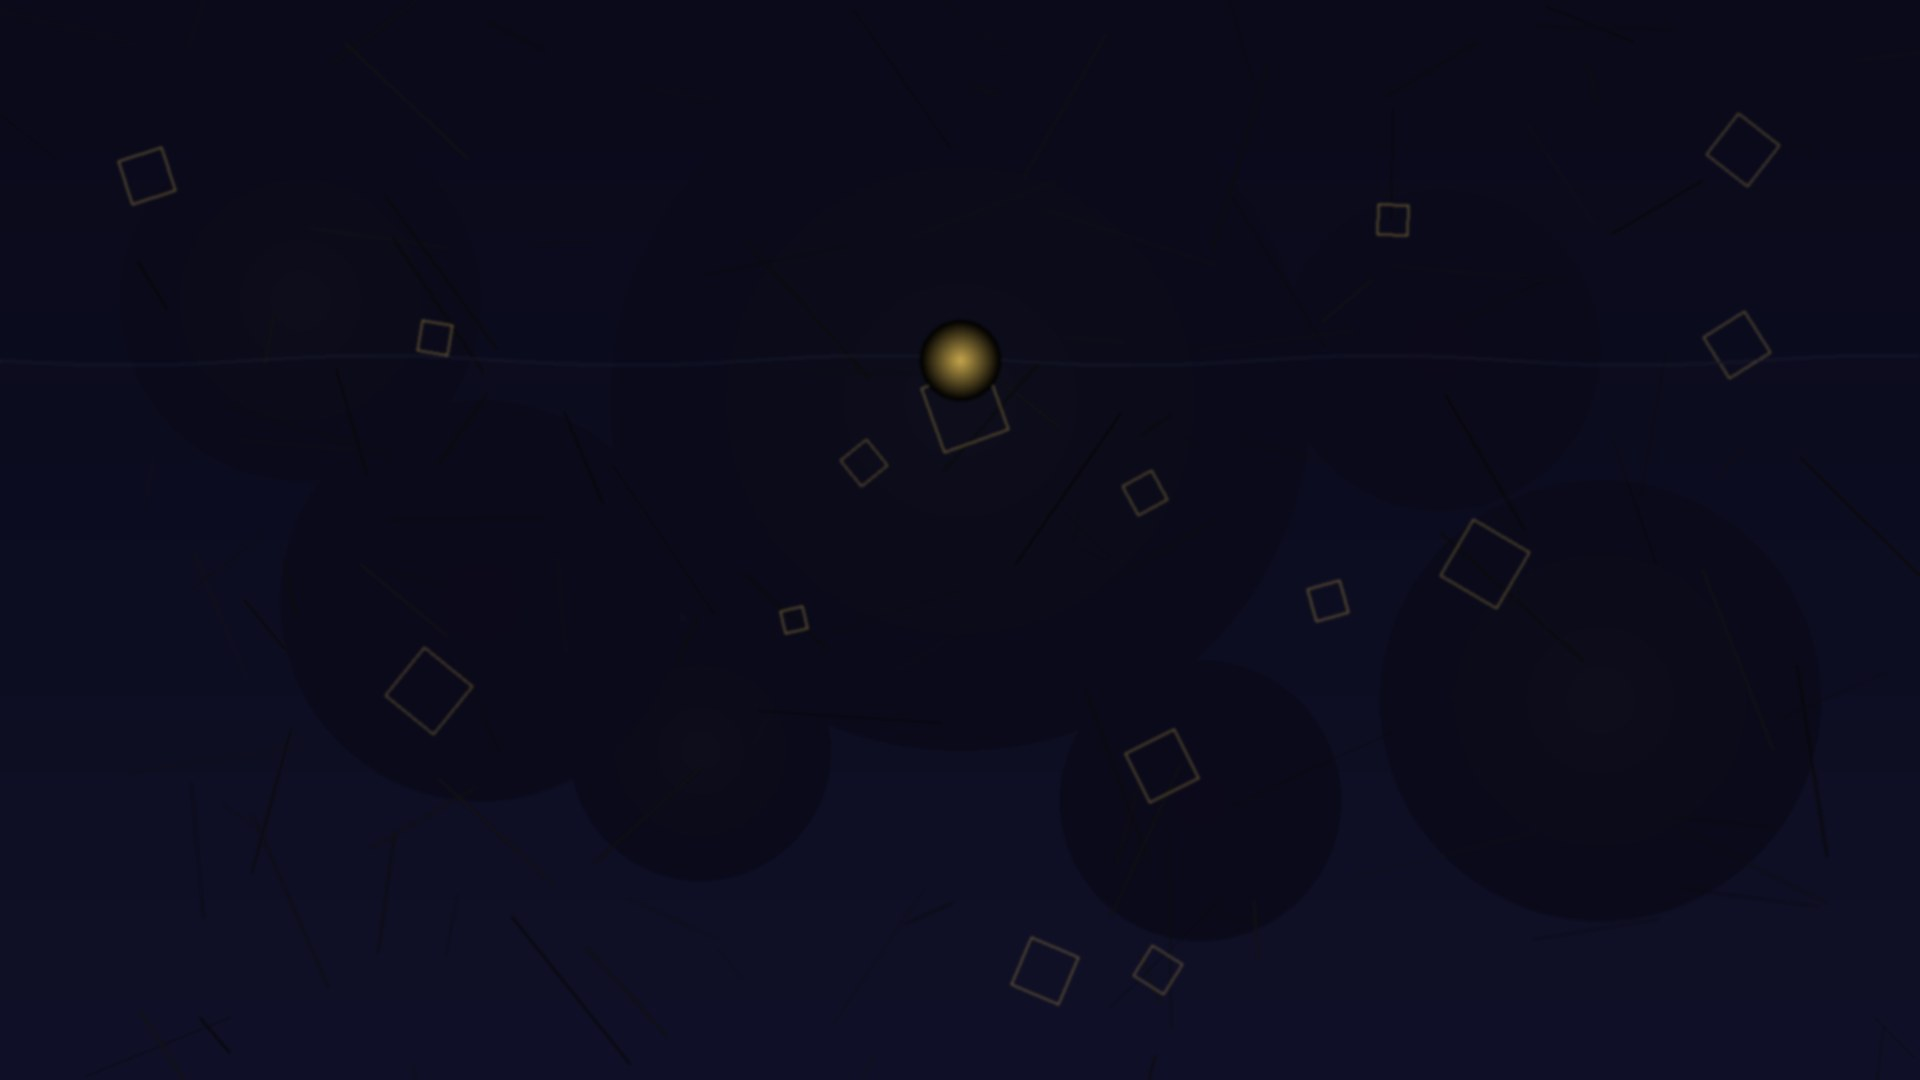
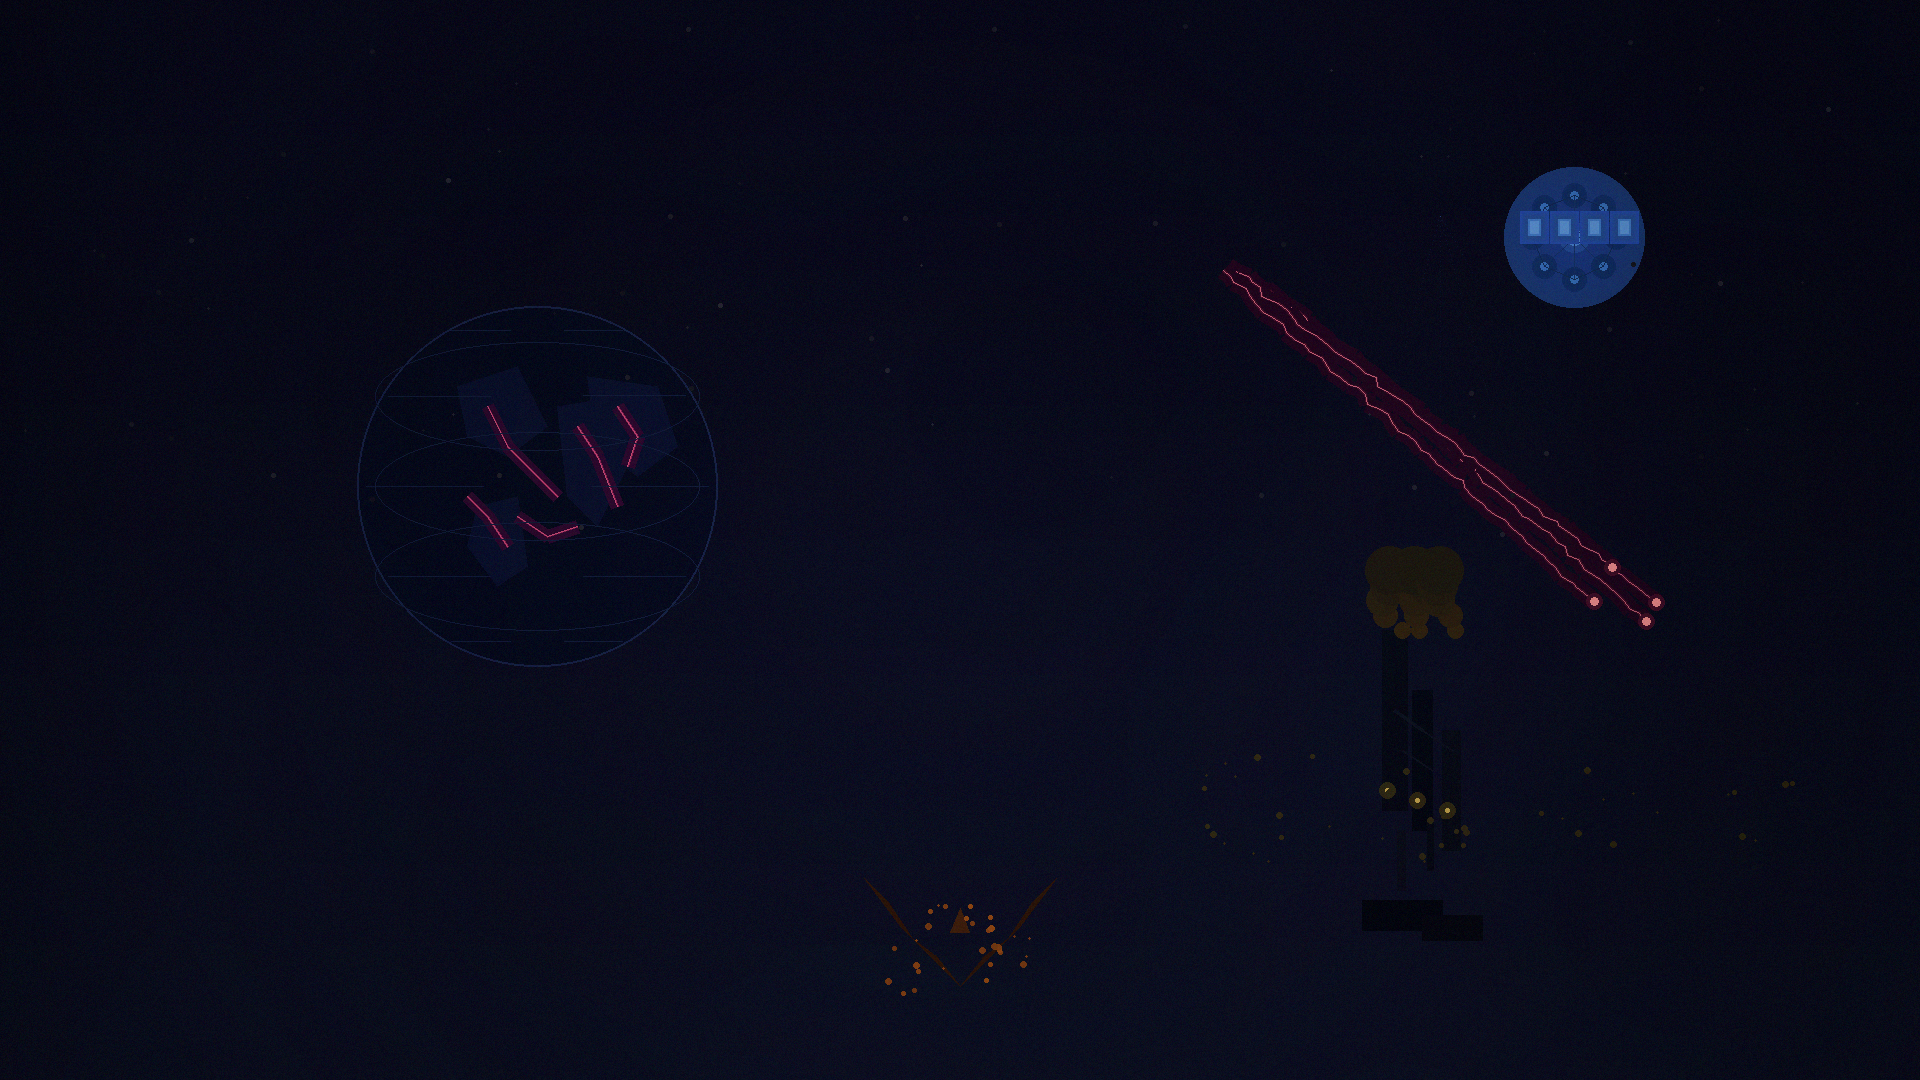
NYT briefing July 18, 2026 — images + html

diff --git a/briefings/nyt_2026-07-18.html b/briefings/nyt_2026-07-18.html
@@ -1,0 +1,135 @@
+<!DOCTYPE html>
+<html lang="zh-CN">
+<head>
+<meta charset="UTF-8">
+<meta name="viewport" content="width=device-width,initial-scale=1.0">
+<title>NYT Front Page Briefing — 2026-07-18</title>
+<style>
+:root { --bg: #0a0a1a; --panel: #14141b; --panel-2: #1a1a24; --text: #e8e8ef; --muted: #9a9aad; --accent: #00ff88; --accent-dim: rgba(0,255,136,0.12); --accent2: #ff4488; --border: rgba(255,255,255,0.08); }
+* { margin: 0; padding: 0; box-sizing: border-box; }
+html, body { background: var(--bg); color: var(--text); font-family: 'Georgia','Noto Serif SC','PingFang SC',serif; line-height: 1.7; font-size: 16px; }
+img { max-width: 100%; display: block; }
+a { color: var(--accent); text-decoration: none; }
+a:hover { text-decoration: underline; }
+.container { max-width: 860px; margin: 0 auto; padding: 0 18px; }
+.hero { position: relative; width: 100%; min-height: 55vh; display: flex; align-items: center; justify-content: center; background: url('./assets/images/nyt_hero_bg.jpg') center/cover no-repeat; overflow: hidden; }
+.hero::before { content: ''; position: absolute; inset: 0; background: rgba(10,10,26,0.60); }
+.hero-content { position: relative; z-index: 1; text-align: center; padding: 2rem; }
+.hero-kicker { display: inline-block; font-size: 0.8rem; font-weight: 700; letter-spacing: 0.14em; text-transform: uppercase; color: var(--accent); margin-bottom: 12px; background: var(--accent-dim); padding: 5px 12px; border-radius: 4px; }
+.hero h1 { font-size: clamp(2rem,5vw,3.5rem); font-weight: 700; letter-spacing: 0.08em; margin-bottom: 12px; text-shadow: 0 0 40px rgba(0,255,136,0.2); }
+.hero-subtitle { font-size: 1rem; color: var(--muted); margin-bottom: 4px; }
+.hero-date { font-size: 0.85rem; color: var(--muted); }
+main { padding: 42px 0 64px; }
+.section-title { font-size: 1.5rem; font-weight: 700; color: var(--accent); margin: 2.5rem 0 1rem; border-bottom: 2px solid var(--accent-dim); padding-bottom: 0.5rem; }
+.section-sub { font-size: 1rem; color: var(--muted); margin: -0.5rem 0 1.5rem; }
+.article { background: var(--panel); border-radius: 10px; padding: 1.25rem; margin-bottom: 1rem; }
+.article h3 { font-size: 1.1rem; color: #fff; margin-bottom: 6px; }
+.article p { color: #c8c8d4; line-height: 1.65; margin: 0 0 0.5rem; font-size: 0.95rem; }
+.article p:last-child { margin-bottom: 0; }
+.key-takeaway { background: var(--panel-2); border-left: 3px solid var(--accent); border-radius: 8px; padding: 1rem 1.25rem; margin-bottom: 0.8rem; }
+.key-takeaway strong { color: var(--accent); }
+.key-takeaway em { color: var(--muted); font-size: 0.85rem; }
+.cartoon-section { text-align: center; margin: 2rem 0; padding: 1.5rem; background: var(--panel); border-radius: 12px; border: 1px dashed var(--border); }
+.cartoon-section img { max-width: 100%; border-radius: 8px; display: block; margin: 0 auto; }
+.cartoon-section h3 { color: var(--accent); font-size: 1.1rem; margin-bottom: 12px; }
+.cartoon-section p { color: var(--muted); margin-top: 10px; font-size: 0.9rem; }
+.observer { background: var(--panel-2); border-left: 3px solid var(--accent); border-radius: 8px; padding: 1.25rem; margin-bottom: 1.25rem; }
+.observer h3 { color: var(--accent); font-size: 1rem; margin-bottom: 8px; }
+.observer p { color: #c0c0d0; line-height: 1.8; font-size: 0.9rem; margin-bottom: 0.75rem; }
+.observer p:last-child { margin-bottom: 0; }
+.observer p strong { color: var(--text); }
+table { width: 100%; border-collapse: collapse; margin: 1rem 0; font-size: 0.9rem; }
+th, td { border: 1px solid var(--border); padding: 0.5rem 0.75rem; text-align: left; }
+th { background: var(--panel); color: var(--accent); }
+td { color: #c8c8d4; }
+footer { padding: 32px 0; border-top: 1px solid var(--border); text-align: center; color: var(--muted); font-size: 0.8rem; }
+.pdf-download { text-align: center; margin: 2rem 0; }
+.pdf-download a { display: inline-block; background: var(--accent-dim); color: var(--accent); padding: 0.75rem 1.25rem; border-radius: 6px; font-weight: 700; border: 1px solid var(--accent); }
+.pdf-download a:hover { background: var(--accent); color: var(--bg); text-decoration: none; }
+@media (max-width: 640px) { .hero { min-height: 35vh; } .container { padding: 0 14px; } .article { padding: 0.9rem; } .observer { padding: 0.9rem; } th, td { padding: 0.4rem 0.5rem; font-size: 0.85rem; } }
+</style></head>
+<body>
+<section class="hero"><div class="hero-content">
+  <div class="hero-kicker">&#9733; MASTER BRIEFING</div>
+  <h1>NYT Front Page Briefing</h1>
+  <div class="hero-subtitle">Saturday's New York Times covers a world where legacy institutions are failing — political parties, military alliances, industrial conglomerates — while new forms of organization emerge from below. The U.S.-Iran war has expanded with strikes on Iranian infrastructure and Iran retaliating against U.S. allies. China's Moonshot AI released a free model that narrows the gap with American frontier AI. Stocks sink on anxiety about tech and AI spending. Andy Burnham rose from Manchester mayor to prime minister, offering a new model of working-class leadership.</div>
+  <div class="hero-date">July 18, 2026</div>
+</div></section>
+<main class="container">
+
+<h2 class="section-title">&#9654; Key Takeaways</h2>
+<div class="key-takeaway"><strong>Trump preemptively claims 2026 election is rigged:</strong> Relitigates 2020 defeat while casting doubt on upcoming election — eroding democratic trust from within. <em>Confidence: 90%</em></div>
+<div class="key-takeaway"><strong>U.S.-Iran war expands with infrastructure strikes:</strong> Strikes damage bridges, railways, ports in Hormozgan Province. Iran retaliates against Kuwait, Bahrain, Oman. Strait of Hormuz effectively blocked. <em>Confidence: 65%</em></div>
+<div class="key-takeaway"><strong>China's Moonshot AI free model release:</strong> Freely available model narrows gap with American frontier AI. Validates thesis that AI capability commoditizing faster than expected. <em>Confidence: 75%</em></div>
+<div class="key-takeaway"><strong>Stocks sink on AI spending anxiety:</strong> Massive AI infrastructure capex raises fundamental question — will enormous investment generate commensurate returns? <em>Confidence: 55%</em></div>
+<div class="key-takeaway"><strong>Britain's political earthquake:</strong> Andy Burnham rises from Manchester mayor to PM. Labour returns under working-class northern figure. <em>Confidence: 80%</em></div>
+
+<h2 class="section-title">&#9654; Cluster 1: Geopolitics &amp; International Affairs</h2>
+<p class="section-sub">U.S.-Iran War Expansion and Global Fallout</p>
+<div class="article"><h3>Iran War Expands</h3><p>Strikes damage bridges, railways, port control towers across Iran's Hormozgan Province. Iran retaliates against U.S. allies Kuwait (power plant), Bahrain, Oman. Tanker struck off Oman.</p></div>
+<div class="article"><h3>Pentagon's Communication Vacuum</h3><p>Defense Secretary Hegseth announces testosterone testing, anti-leak task forces. No war updates. Fewest briefings of any major U.S. conflict.</p></div>
+<div class="article"><h3>Britain's Political Earthquake</h3><p>Andy Burnham becomes Labour leader and incoming PM. Rise from Manchester mayor to 10 Downing Street represents fundamental realignment of British politics.</p></div>
+<div class="article"><h3>Russia's Internal Repression</h3><p>Masked state agents resolve internal political dispute through intimidation. Kremlin cannot manage political competition through institutional means.</p></div>
+<div class="article"><h3>France's Climate Challenge</h3><p>Wildfires spread near Paris. Extreme heat outpaces institutional capacity. Firefighting services forced to adapt in real time.</p></div>
+<div class="article"><h3>Obituary: Guy Scott</h3><p>White leader of Zambia, acting president in 2014, died at 82.</p></div>
+
+<h2 class="section-title">&#9654; Cluster 2: U.S. Politics &amp; Domestic Policy</h2>
+<p class="section-sub">Trump's Democracy Crisis and Institutional Strains</p>
+<div class="article"><h3>Trump's Democracy Crisis</h3><p>Trump persists in relitigating 2020 defeat while casting doubt on 2026 outcome. Eroding public trust in democratic institutions.</p></div>
+<div class="article"><h3>The Trump House Killing</h3><p>Kerry Sheron, army veteran known for pro-Trump home in Escondido, CA, killed outside his house. Political symbolism as physical target.</p></div>
+<div class="article"><h3>ICE Shootings and Community Response</h3><p>Houston mourning "different from Minneapolis." Maine ICE victim "relentlessly pursued a better life."</p></div>
+<div class="article"><h3>Green Card Restrictions</h3><p>Trump admin restricts green cards for immigrants on public assistance. Tension with labor market demands in AI, healthcare, construction.</p></div>
+
+<h2 class="section-title">&#9654; Cluster 3: Business, Tech &amp; Economy</h2>
+<p class="section-sub">Market Anxiety and AI Competition</p>
+<div class="article"><h3>China's AI Breakthrough</h3><p>Moonshot AI unveils freely available model narrowing gap with U.S. offerings. U.S. export controls have not stopped Chinese AI progress.</p></div>
+<div class="article"><h3>Meta's $10 Billion Infrastructure Play</h3><p>Meta in talks to lease computing power to Anthropic in potential $10B deal. Meta positions as AI infrastructure provider.</p></div>
+<div class="article"><h3>Boeing's Turnaround</h3><p>After repeated crises (737 MAX, quality control, production shutdowns), Boeing tries to rebuild trust. Rebuilding engineering culture takes years.</p></div>
+<div class="article"><h3>Stock Market Anxiety</h3><p>Stocks sink on anxiety about tech and AI spending. Will enormous AI capex generate commensurate returns? Market pricing in wide range of outcomes.</p></div>
+
+<h2 class="section-title">&#9654; Cluster 4: Culture &amp; Society</h2>
+<p class="section-sub">Grassroots Action and Cultural Rediscovery</p>
+<div class="article"><h3>Grassroots Environmental Action</h3><p>Old Ladies Against Underwater Garbage remove 6,000 pounds from Cape Cod ponds. Bypassing institutional politics entirely.</p></div>
+<div class="article"><h3>Gen Z's Movie Theater Revival</h3><p>Zoomers rediscover movie theaters. Positive development for Hollywood and local economies.</p></div>
+<div class="article"><h3>Cultural Rediscovery</h3><p>Gary Stewart's career resurrection and Ross McElwee's influence on "The Real World" and Nathan Fielder.</p></div>
+<div class="article"><h3>World Cup Fever</h3><p>Argentina's giant flags, Australia's 3-0 win, Canada advances.</p></div>
+
+<div class="cartoon-section">
+  <h3>&#9654; Daily Cartoon</h3>
+  <img src="./assets/images/nyt_cartoon.jpg" alt="NYT Daily Cartoon 2026-07-18" />
+  <p>"Trump's Democracy Crisis Meets China's AI Leap". Left: Trump's 'rigged' narrative erodes democratic trust as the Liberty Bell cracks. Right: China's Moonshot AI chip lights a rocket for a new technological order. Between them: the Strait of Hormuz oil barrels that link both worlds.</p>
+</div>
+
+<h2 class="section-title">&#9654; Observer Commentary</h2>
+<div class="observer"><h3>翟东升 &mdash; 2026-07-18</h3>
+<p><strong>The US is fighting a three-front war (Iran, AI competition, domestic political legitimacy) with a fiscal base that cannot sustain all three.</strong></p>
+<p>The Meta-Anthropic $10B compute deal is a microcosm of monetary war — AI compute becoming the new "petrodollar equivalent." China's Moonshot AI free model isn't just tech catch-up — it builds a parallel technology infrastructure outside US control. Something has to give — and it will be the dollar's purchasing power.</p>
+</div>
+<div class="observer"><h3>金灿荣 &mdash; 2026-07-18</h3>
+<p><strong>百年未有之大变局 — US-Iran war expansion, China AI breakthrough, UK political earthquake, US stock selloff all on the same day.</strong></p>
+<p>US industrial base can't sustain a medium-intensity prolonged war — Boeing's quality issues prove manufacturing atrophy determines military limits. China's Moonshot AI breakthrough proves export controls don't stop progress — they accelerate independent innovation. UK's Burnham victory proves Western political realignment is accelerating.</p>
+</div>
+<div class="observer"><h3>宋鸿兵 &mdash; 2026-07-18</h3>
+<p><strong>Biggest story isn't the Iran war — it's the AI spending anxiety selloff + Meta-Anthropic $10B deal on the same day.</strong></p>
+<p>This is "三变六反" — AI narrative's inflection point at year 6. From dollar circulation perspective, massive AI capex is hot-dollar flow into tech. When these investments fail to generate returns — as the market is pricing — dollar circulation reverses, capital flees to safe assets. US national debt exceeds $36T, interest payments surpass defense spending. Moonshot AI's free model is an attack on the 7th dimension (tech standards) of the financial high frontier. Debt volcano is underfoot, rate storm is brewing.</p>
+</div>
+
+<h2 class="section-title">&#9654; Predictions</h2>
+<table>
+<thead><tr><th>#</th><th>Prediction</th><th>Confidence</th><th>Rationale</th></tr></thead>
+<tbody>
+<tr><td>1</td><td>U.S.-Iran strikes escalate with new front opening</td><td>65%</td><td>Both sides trapped in escalation dynamics; neither has an off-ramp. Iran must respond to infrastructure damage.</td></tr>
+<tr><td>2</td><td>China's Moonshot AI model gains significant adoption outside China within 90 days</td><td>75%</td><td>Freely available open-source model fills a market gap created by U.S. export controls.</td></tr>
+<tr><td>3</td><td>Trump publicly claims 2026 election rigged before Election Day</td><td>90%</td><td>This pattern is now embedded — he did it in 2020 and 2022.</td></tr>
+<tr><td>4</td><td>Federal Reserve cites AI capex concerns in next policy statement</td><td>55%</td><td>Stocks selling off on AI spending anxiety is real, but the Fed typically avoids sector-specific commentary.</td></tr>
+<tr><td>5</td><td>Boeing announces new leadership change within 6 months</td><td>60%</td><td>The turnaround story is still in early stages; repeated crises suggest insufficient internal reform.</td></tr>
+</tbody>
+</table>
+
+<div class="pdf-download">
+  <a href="/Users/fudongli/.hermes/nyt_briefing_2026-07-18.pdf" download>Download PDF Briefing</a>
+</div>
+
+</main>
+<footer><p>NYT Master Briefing &middot; July 18, 2026 &middot; Generated by Hermes Agent</p></footer>
+</body></html>